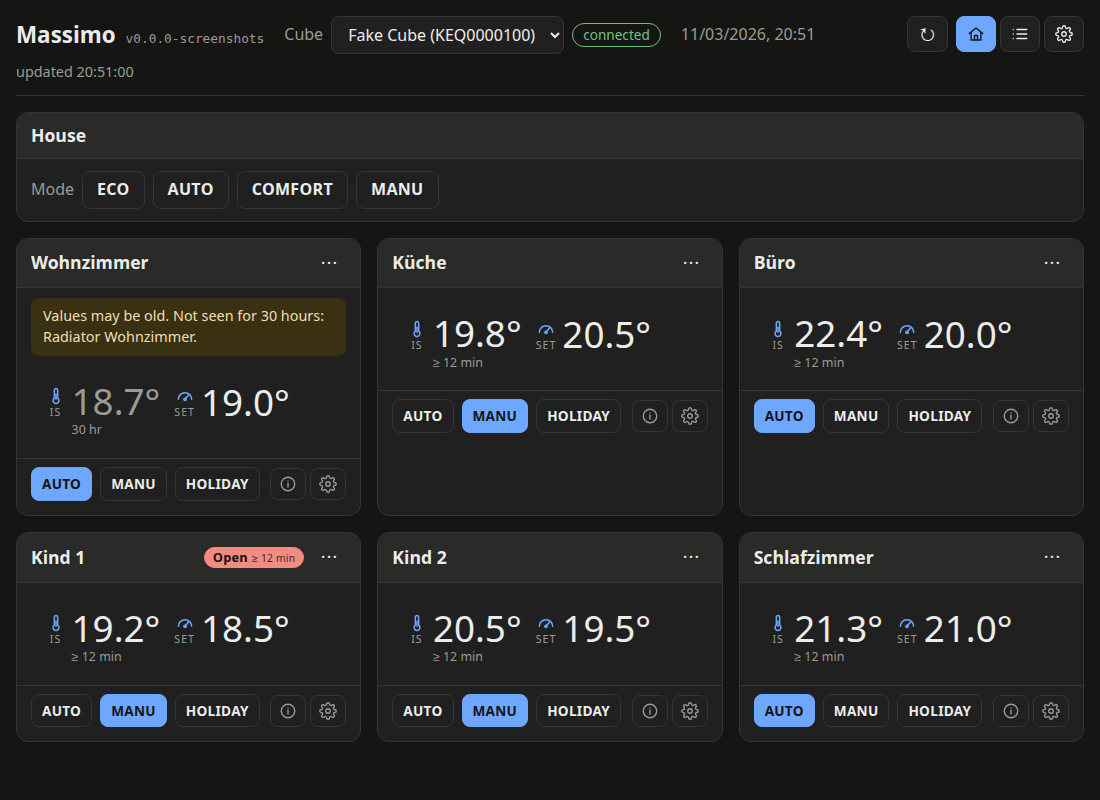
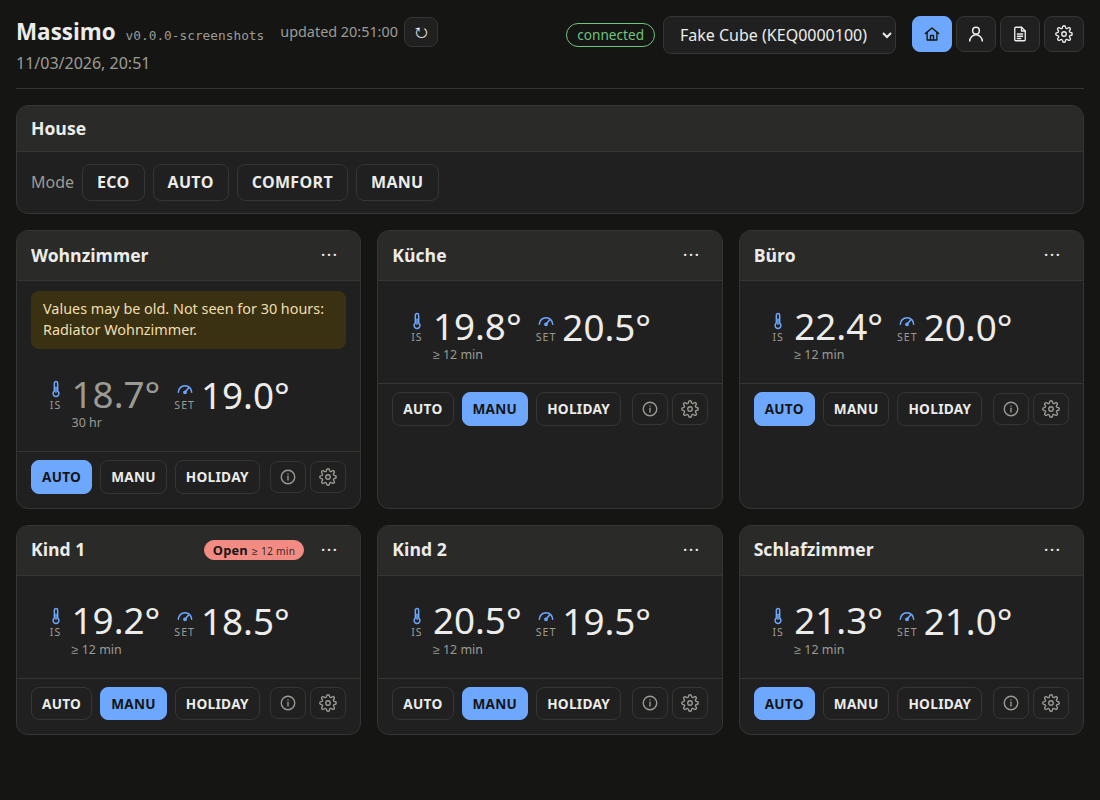
docs(ui): Retake the screenshots with the new header and settings pages
Every shot shows the header, which now reads the time with ↻, the Cube choice, then 🏠 👤 📄 ⚙, so the whole set is retaken (AP Navigation v1.1, Block 7). The settings shots become My settings and System settings, and two shots are new: the 👤 menu open at 1100 px, light and dark, and ☰ open at 390 px; the slideshow is built again from the main set. No CHANGELOG bullet: docs/ and tools/ only.

Key changes:
- tools/ui-test/screenshots.py: user-menu, prefs, system and nav-menu in place of settings; WIDE, the pages of the full width, without ☰.
- docs/screenshots/: the set retaken, settings-*.png gone, slideshow.gif rebuilt.
- tools/ui-test/README.md: the set's pages.

Assisted-by: claude-code:claude-opus-5-5

diff --git a/tools/ui-test/screenshots.py b/tools/ui-test/screenshots.py
@@ -46,7 +46,7 @@ import time
 from pathlib import Path
 from urllib.parse import urlparse
 
-from helpers import show_view
+from helpers import open_user_menu, show_view
 
 OUT = Path(__file__).resolve().parents[2] / "docs" / "screenshots"
 NOW = "2026-11-03T20:51:00+01:00"            # the page's clock: the greeting's Cube clock in TZ
@@ -84,19 +84,24 @@ PAGES = {
     "config-copy": ".room",
     "house": "#house",
     "log": None,                                    # its lines run the full width
+    "user-menu": None,                              # the 👤 menu open over the rooms
     "prefs": "#prefs",                              # My settings
     "appearance": "#prefs .appearance",
     "system": "#system",                            # System settings
     "cube-found": "header.top",                     # the Cube choice with the found Cube under it
     "cubes": "#system .cubes-settings",
+    "nav-menu": None,                               # ☰, which only a narrow screen shows
 }
+
+# The pages of the full width: all but ☰.
+WIDE = [p for p in PAGES if p != "nav-menu"]
 
 # The set: each run is one browser context, (width, theme, language,
 # pages). The first is the main set and the slideshow's frames.
 SETS = [
-    (1100, "light", "en", list(PAGES)),
-    (1100, "dark", "en", list(PAGES)),
-    (390, "light", "en", ["rooms", "prefs", "system"]),
+    (1100, "light", "en", WIDE),
+    (1100, "dark", "en", WIDE),
+    (390, "light", "en", ["rooms", "nav-menu", "prefs", "system"]),
     (1100, "light", "de", ["rooms"]),
 ]
 
@@ -267,6 +272,11 @@ def step(page, which):
             changes: { window_open: { from: false, to: true }, setpoint: { from: 18.5, to: 12 } } }) }));
         }""", LOG_TIME)
         page.wait_for_selector("#logview .log-line.kind-state >> nth=-1")
+    elif which == "user-menu":
+        open_user_menu(page)
+    elif which == "nav-menu":
+        page.locator("#nav-menu summary").click()
+        page.locator("#nav-menu .menu-items").wait_for(state="visible")
     elif which in ("prefs", "system"):
         show_view(page, which)
     elif which == "appearance":

diff --git a/tools/ui-test/README.md b/tools/ui-test/README.md
@@ -279,11 +279,11 @@ It takes a fixed set of PNGs into `docs/screenshots/`,
 named `<page>-<width>-<theme>-<lang>.png` and listed in one place,
 `SETS` in the script:
 the Rooms page, a tile's device list, the configuration's tabs Temperatures,
-Devices, Week programme and Copy, the House panel, the log, My settings,
-the Appearance editor, System settings,
+Devices, Week programme and Copy, the House panel, the log, the 👤 menu,
+My settings, the Appearance editor, System settings,
 the Cube choice with a found Cube and System settings → Cubes,
 at 1100 px in light and dark (`data-theme`), in English;
-the Rooms page, My settings and System settings also at 390 px,
+the Rooms page, ☰ open, My settings and System settings also at 390 px,
 and the Rooms page in German as well.
 A shot is framed by its subject, set beside each page in `PAGES`:
 the viewport (1100 × 800,
